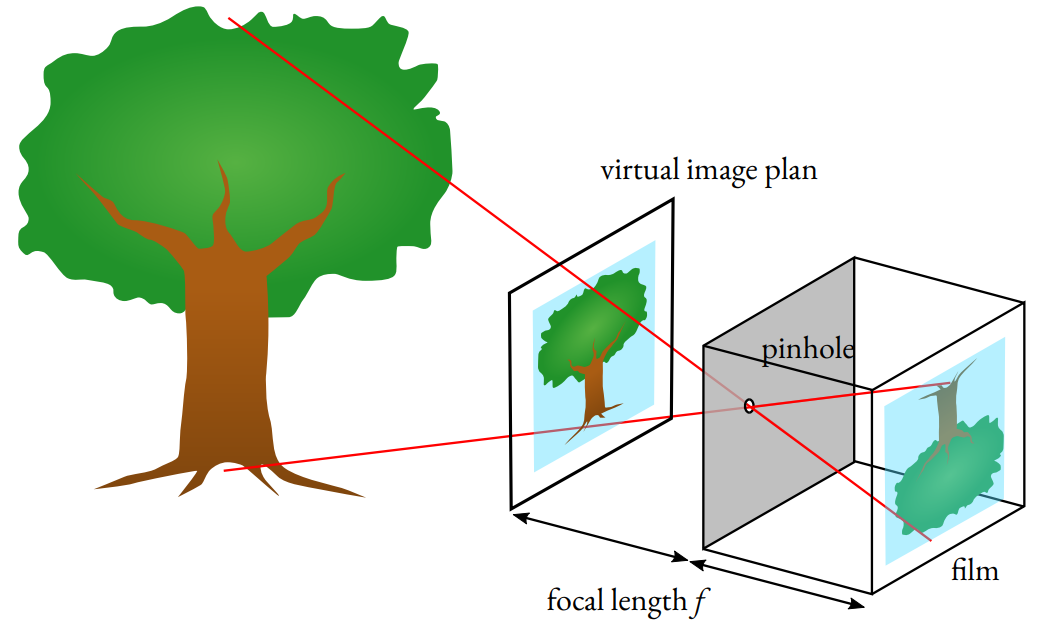
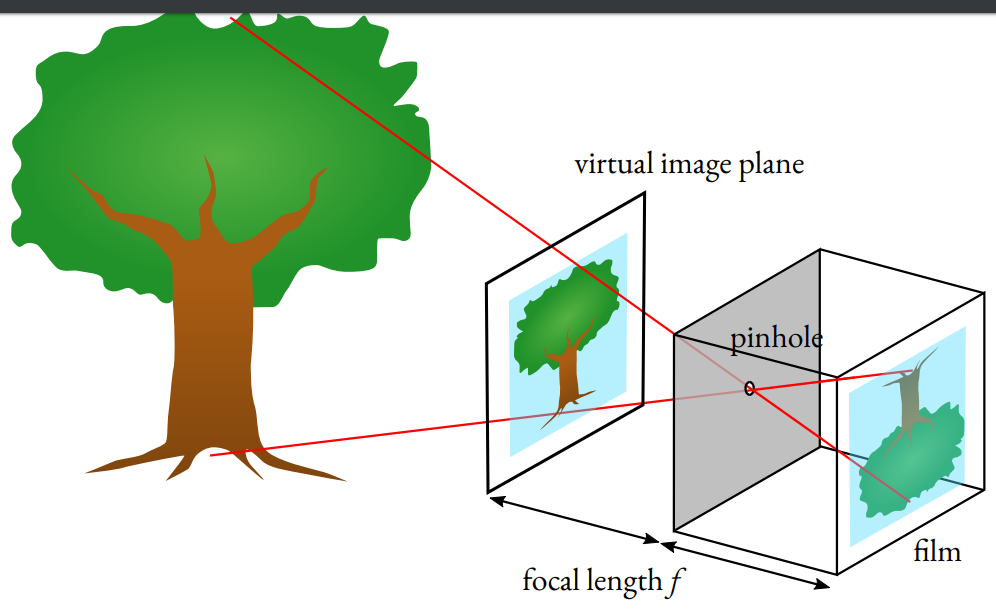
Update intro for camera model post

diff --git a/_posts/blogs/2017-06-30-camera-params.md b/_posts/blogs/2017-06-30-camera-params.md
@@ -15,25 +15,41 @@ work can actually get us to many interesting problem of computer visions such as
 image panorama or 3D reconstruction.
 
 Believe it or not, camera was once invented with motivation from human eyes (ref?)
-one of the most complicated organ in a human body (ref?). Despite how complicated
+one of the most complex organ in a human body (ref?). Despite how complicated
 camera technology can get to now, the camera model employed in computer vision
 is, surprisingly, kinda simple.
 
-If we put a film in front of an object, we get a very blur image, because light
-rays reflected from every part of object will ended at the same position on the
-film. Thus, no good
+[The eyes are the second most complex organ after the brain in a human body.](
+http://optimumperformancetechnologies.blogspot.nl/2008/05/second-most-complex-organ-after-brain.html)
 
-To limit the ray that can touch the film, we put a barrier with small pinhole on
-it. That basically makes a camera.
+To captured image, we use photographic films, thin plastic sheets coasted with 
+light-sensitive substances, that react to light rays contact (read more at [wiki](
+https://en.wikipedia.org/wiki/Photographic_film)).
 
-Show a diagram
+If we simply put a film in front of an object, we get a very blur image, because
+light rays reflected from every part of object can end up at the same position 
+on the film. Thus, no good
 
-We are going backward, from the image to the objects in the world
+To limit the number of rays that can touch the film, we put a barrier with a 
+pinhole, or *aperture*, on it. The pinhole is designed to allow just one light
+ray pass through and create an inverted image of the scene. That basically makes 
+a (pinhole) camera, and the effect is called *camera obscura* effect.
+
+define focal length: distance from pinhole to the film
+
+a pinhole camera requires no lens, but for the sake of simplicity, 
+in most computer vision research, we assume the camera used follow a pinhole
+camera model
 
 {% include image image="pinhole_camera.png" caption="<b>Figure 1</b> Pinhole
 camera model."
 %}      
 
+A pinhole camera creates real image on the film, hence the name real image plane.
+But for easy mathemetic in the following section, we consider a virtual image
+plane that are symmetric to the real image plane about the lens.
+
+We are going backward, from the image to the objects in the world
 
 ### Three coordinate systems
 
@@ -49,7 +65,7 @@ World coordinate system
 ### Image formation
 
 {% include image image="camera_model.png" caption="<b>Figure 2</b> Pinhole
-camera model. Inspired from 
+camera model. Redrawn from 
 <a target='_blank' href='https://docs.opencv.org/2.4/modules/calib3d/doc/camera_calibration_and_3d_reconstruction.html'>OpenCV documentation</a>"
 %}      
 
